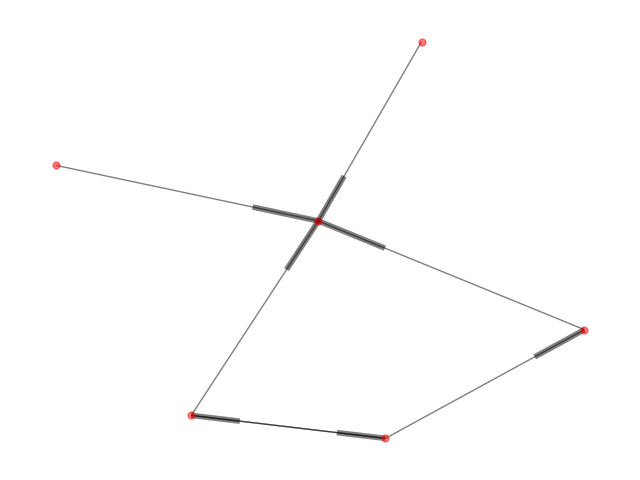
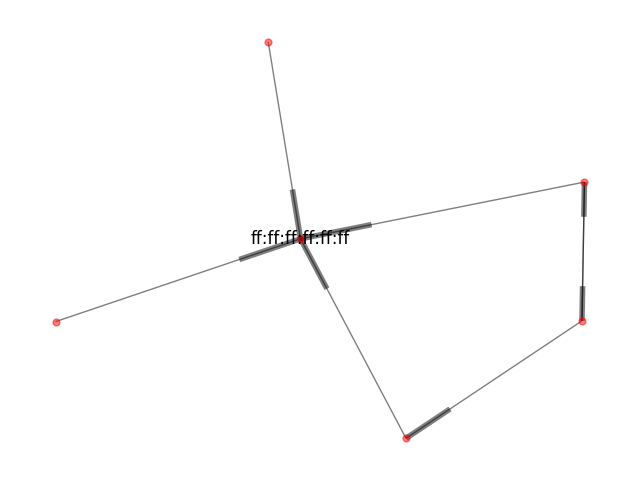
Muestra nodo multicast

diff --git a/tp1/informe/resultados.tex b/tp1/informe/resultados.tex
@@ -1,6 +1,15 @@
 En esta secci\'on, presentaremos los resultados obtenidos en los experimentos
 utilizando lo definido en la secci\'on de desarrollo.
 
+Se buscaron analizar en cada fuente tres tipos de redes segun su escala, es
+decir redes pequeña, mediana y gran escala. Estas redes fueron
+una hogareña, de unas oficinas, de un laboratorio de una Universidad.
+
+En cada captura se almaceno todo los paquetes que se transmitieron
+por la red con el sniffer desarollado como se menciono
+previamente. Luego analizados automaticamente por el otro programa `analy\_data`
+para producir los graficos que se presentan a continuación.
+
 \subsection{Nodos distinguidos}
 
 En cada experimento se analizaron las dos fuentes de información y se definió
@@ -55,12 +64,19 @@ En cada experimentación se generaron tres tipos de resultados/graficos.
  \includegraphics[scale=0.6]{../plots/mauro_s2_topologia.png}
 \end{center}
 
-\subsection{Experimento Chino}
+\subsection{\emph{Red del Trabajo}}
+
+En esta caso se analizo una red cableada de mediana escala, 
+que consta de 6 oficinas con varias computadoras de escritorio (Desktop) totalizando
+una cantidad de 29 estaciones. Además en cada oficina se encuentra un switch que conecta todas
+las PCs de esta. La captura que se tomó fue de una hora para 
+poder obtener estadísticamente suficiente precision en las medidas y que estas no sean
+alteradas por posibles `outliers`.
 
 \subsubsection{Fuente Unicast-Multicast}
 
-\hspace*{-1.5cm}
- \includegraphics[scale=0.6]{../plots/trabajo_s1_informacion.png}
+\begin{figure}
+\centering
  \includegraphics[scale=0.4]{../plots/trabajo_s1_probabilidades.png}
 
 \subsubsection{Fuente ARP}

diff --git a/tp1/plots/grafo.py b/tp1/plots/grafo.py
@@ -12,7 +12,10 @@ def plot(graph):
         G.add_edge(u, v, cost=str(c)) 
     # edge_labels = nx.get_edge_attributes(G, 'cost')
     pos = nx.spring_layout(G)
-    nx.draw(G,pos=pos, node_size=24, alpha=0.5)
+    labels={}
+    if 'ff:ff:ff:ff:ff:ff' in pos:
+        labels['ff:ff:ff:ff:ff:ff'] = 'ff:ff:ff:ff:ff:ff'
+    nx.draw(G,pos=pos, node_size=24, alpha=0.5, labels=labels)
     # nx.draw_networkx_edge_labels(G,pos=pos, edge_labels=edge_labels, alpha=0.5)
 
 
